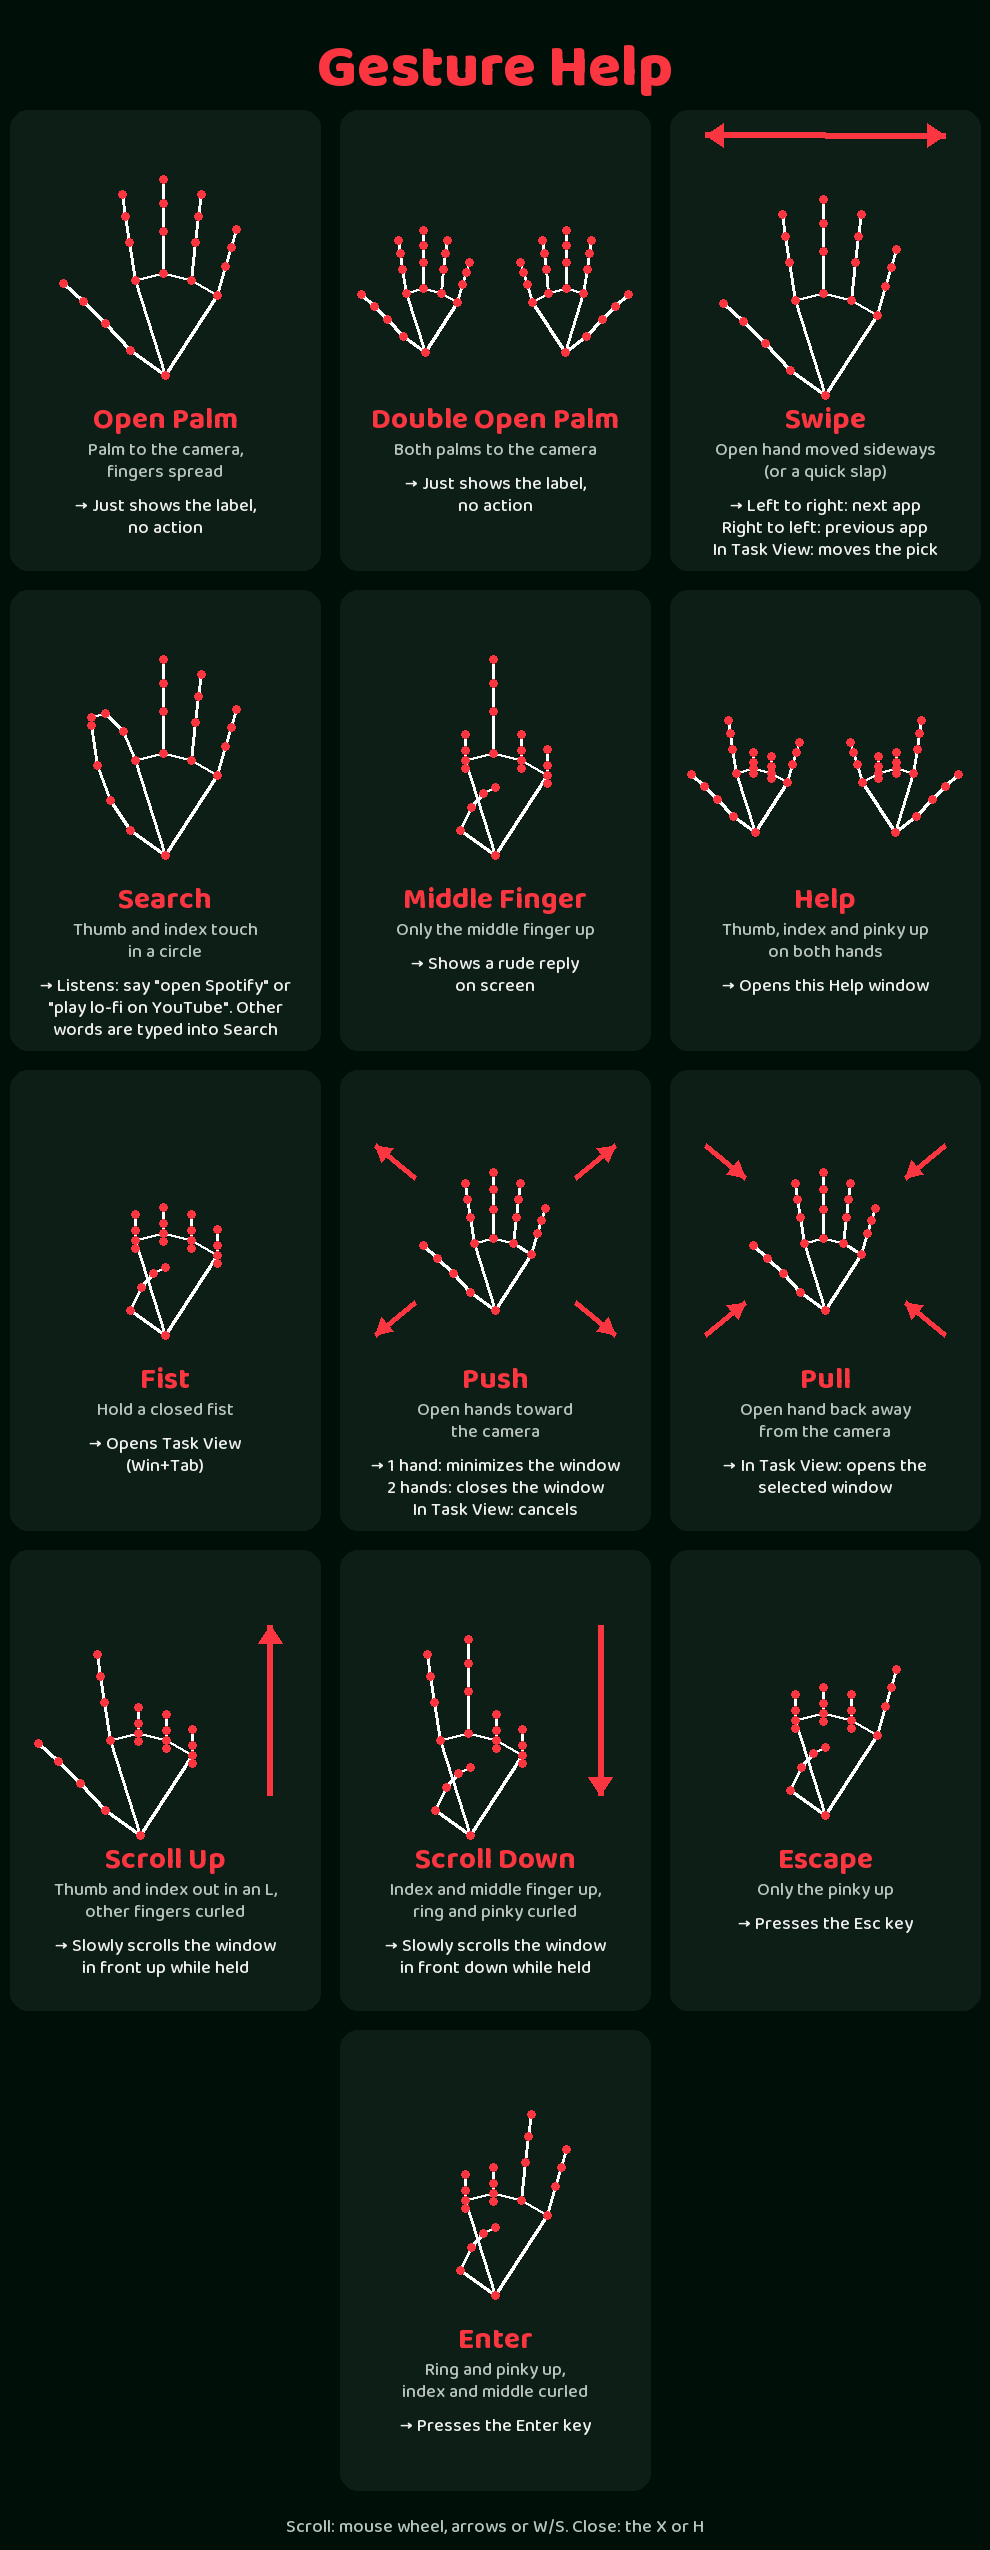
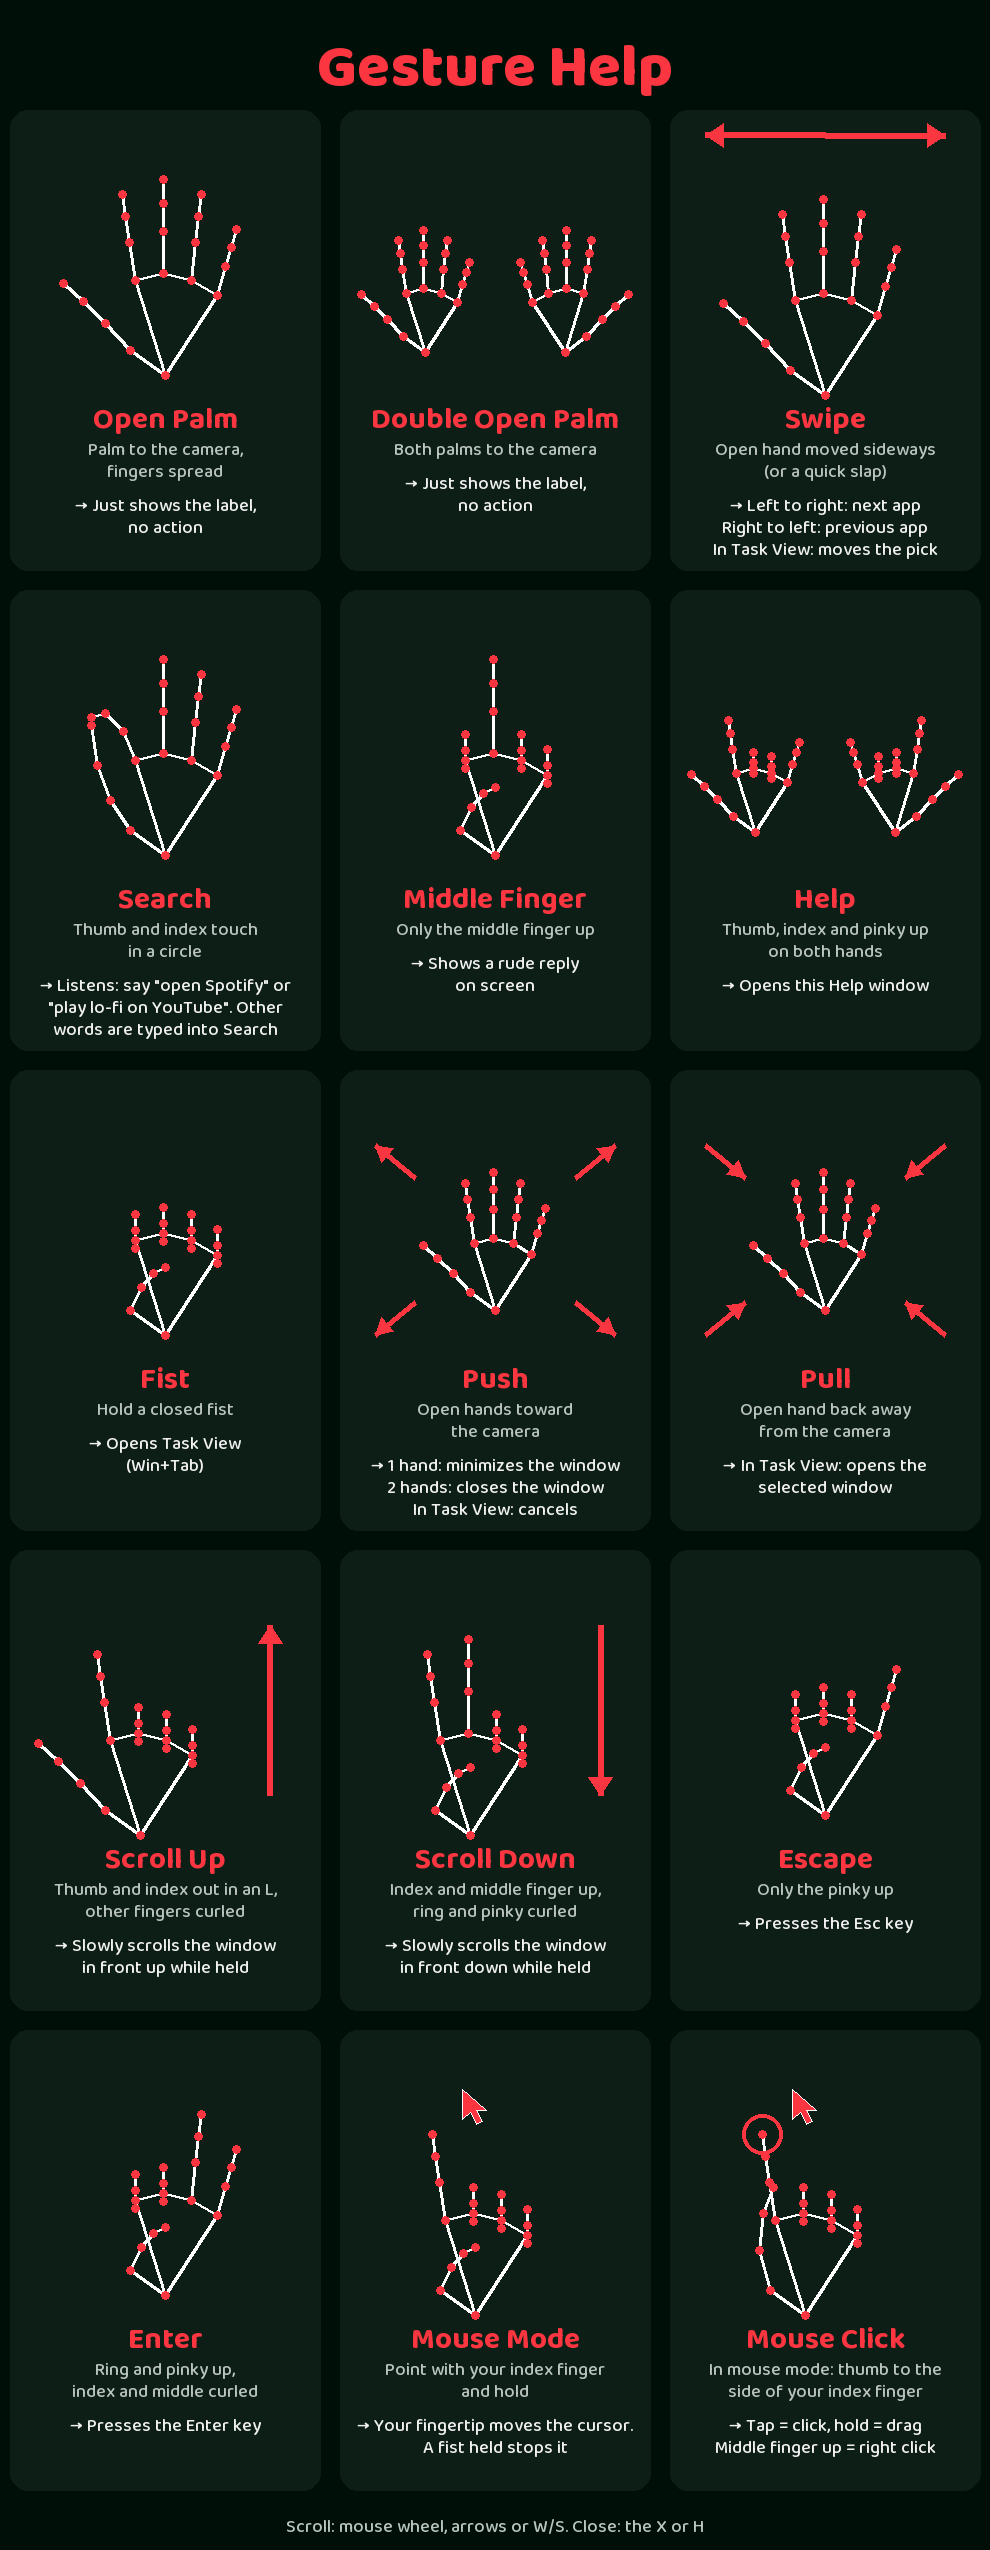
Add air mouse: index fingertip moves the cursor, thumb clicks and drags

diff --git a/src/mouse.py b/src/mouse.py
@@ -1,0 +1,191 @@
+"""Air mouse: your index fingertip moves the cursor, your thumb clicks and drags.
+
+Point (index finger only) and hold to start; make a fist and hold to stop.
+While it is on, the other gestures are switched off so they cannot fire by accident.
+"""
+import ctypes
+import math
+import time
+
+import cv2
+
+user32 = ctypes.windll.user32
+user32.SetProcessDPIAware()  # real pixels, not scaled ones
+SCREEN_W = user32.GetSystemMetrics(0)
+SCREEN_H = user32.GetSystemMetrics(1)
+
+# The part of the camera picture (x0, x1, y0, y1) that maps onto the whole screen,
+# so you can reach the screen edges without leaving the camera view.
+REGION = (0.2, 0.8, 0.15, 0.75)
+
+POINT_HOLD_S = 0.8  # hold the pointing sign this long to start
+EXIT_HOLD_S = 0.7  # hold a fist this long to stop
+AUTO_EXIT_S = 6.0  # stop by itself if your hand is out of view this long
+PINCH_ON = 0.30  # thumb tip this close to the index finger (x hand size) = pressed
+PINCH_OFF = 0.42  # ...and released when it is farther than this
+RIGHT_CLICK_HOLD_S = 0.25  # hold the middle finger up this long for a right click
+DRAG_AFTER_S = 0.4  # a press held this long is shown as "Dragging"
+FLASH_S = 0.6
+
+WRIST, THUMB_TIP, THUMB_IP, INDEX_MCP, INDEX_PIP, INDEX_TIP = 0, 4, 3, 5, 6, 8
+PINKY_MCP = 17
+
+
+def _dist(a, b):
+    return ((a.x - b.x) ** 2 + (a.y - b.y) ** 2) ** 0.5
+
+
+def _extended(lm, tip, pip):
+    return _dist(lm[tip], lm[WRIST]) > _dist(lm[pip], lm[WRIST])
+
+
+def _curled(lm, tip, mcp):
+    return _dist(lm[tip], lm[WRIST]) < _dist(lm[mcp], lm[WRIST])
+
+
+def _thumb_out(lm):
+    return _dist(lm[THUMB_TIP], lm[PINKY_MCP]) > _dist(lm[THUMB_IP], lm[PINKY_MCP])
+
+
+def is_pointing(lm):
+    """Only the index finger up, thumb tucked in: the sign that starts mouse mode."""
+    return (
+        not _thumb_out(lm)
+        and _extended(lm, 8, 6)
+        and _curled(lm, 12, 9)
+        and _curled(lm, 16, 13)
+        and _curled(lm, 20, 17)
+    )
+
+
+def is_fist(lm):
+    return all(_dist(lm[tip], lm[WRIST]) < 0.9 * _dist(lm[mcp], lm[WRIST])
+               for tip, mcp in ((8, 5), (12, 9), (16, 13), (20, 17)))
+
+
+# --- the actual mouse (kept apart so it can be swapped out in tests) --------------------
+
+def move_cursor(x, y):
+    user32.SetCursorPos(int(x), int(y))
+
+
+def button(name, down):
+    flags = {("left", True): 0x0002, ("left", False): 0x0004,
+             ("right", True): 0x0008, ("right", False): 0x0010}[(name, down)]
+    user32.mouse_event(flags, 0, 0, 0, 0)
+
+
+class Smoother:
+    """Smooths the cursor: steady when you move slowly, quick when you move fast."""
+
+    def __init__(self):
+        self.x = self.y = None
+
+    def reset(self):
+        self.x = self.y = None
+
+    def __call__(self, x, y):
+        if self.x is None:
+            self.x, self.y = x, y
+        else:
+            speed = math.hypot(x - self.x, y - self.y)  # pixels since the last frame
+            alpha = min(0.85, 0.12 + speed / 300)
+            self.x += (x - self.x) * alpha
+            self.y += (y - self.y) * alpha
+        return self.x, self.y
+
+
+class AirMouse:
+    def __init__(self):
+        self.active = False
+        self._smooth = Smoother()
+        self._pressed = False
+        self._press_since = 0.0
+        self._middle_since = None
+        self._right_armed = True
+        self._fist_since = None
+        self._last_seen = 0.0
+        self._flash = ""
+        self._flash_until = 0.0
+
+    def start(self, now):
+        self.active = True
+        self._last_seen = now
+        self._smooth.reset()
+        self._pressed = False
+        self._middle_since = self._fist_since = None
+        self._right_armed = True
+        self._flash, self._flash_until = "Mouse mode on", now + FLASH_S
+
+    def stop(self, now):
+        if self._pressed:
+            button("left", False)
+        self.active = False
+        self._pressed = False
+        self._flash, self._flash_until = "Mouse mode off", now + FLASH_S
+
+    @property
+    def label(self):
+        if time.time() < self._flash_until:
+            return self._flash
+        if self._pressed and time.time() - self._press_since >= DRAG_AFTER_S:
+            return "Dragging"
+        return "Mouse mode" if self.active else ""
+
+    def update(self, hands, now):
+        if not self.active:
+            return
+        if not hands:
+            if now - self._last_seen > AUTO_EXIT_S:
+                self.stop(now)
+            return
+        lm = hands[0]
+        self._last_seen = now
+
+        # A fist stops mouse mode.
+        if is_fist(lm):
+            self._fist_since = self._fist_since or now
+            if now - self._fist_since >= EXIT_HOLD_S:
+                self.stop(now)
+            return
+        self._fist_since = None
+
+        # Middle finger up = right click, and the cursor stays put while you do it.
+        middle_up = _extended(lm, 12, 10)
+        if middle_up:
+            self._middle_since = self._middle_since or now
+            if self._right_armed and now - self._middle_since >= RIGHT_CLICK_HOLD_S:
+                button("right", True)
+                button("right", False)
+                self._right_armed = False
+                self._flash, self._flash_until = "Right click", now + FLASH_S
+        else:
+            self._middle_since = None
+            self._right_armed = True
+            x0, x1, y0, y1 = REGION
+            nx = min(max((lm[INDEX_TIP].x - x0) / (x1 - x0), 0.0), 1.0)
+            ny = min(max((lm[INDEX_TIP].y - y0) / (y1 - y0), 0.0), 1.0)
+            move_cursor(*self._smooth(nx * (SCREEN_W - 1), ny * (SCREEN_H - 1)))
+
+        # Thumb tip to the side of the index finger = press (a quick tap is a click,
+        # holding it while you move is a drag).
+        size = _dist(lm[WRIST], lm[9])
+        gap = _dist(lm[THUMB_TIP], lm[INDEX_PIP]) / size if size else 1.0
+        if not self._pressed and gap < PINCH_ON and not middle_up:
+            self._pressed, self._press_since = True, now
+            button("left", True)
+            self._flash, self._flash_until = "Click", now + 0.25
+        elif self._pressed and gap > PINCH_OFF:
+            self._pressed = False
+            button("left", False)
+
+    def draw(self, frame, hands):
+        """Show the area that maps to the screen and where your fingertip is."""
+        h, w = frame.shape[:2]
+        x0, x1, y0, y1 = REGION
+        cv2.rectangle(frame, (int(x0 * w), int(y0 * h)), (int(x1 * w), int(y1 * h)),
+                      (255, 255, 255), 1)
+        if hands:
+            tip = hands[0][INDEX_TIP]
+            thickness = -1 if self._pressed else 3
+            cv2.circle(frame, (int(tip.x * w), int(tip.y * h)), 14, (64, 54, 251), thickness)

diff --git a/src/help_screen.py b/src/help_screen.py
@@ -41,6 +41,7 @@ THUMB = {
     "out": [(115, 245), (90, 218), (68, 196), (48, 178)],
     "in": [(115, 245), (126, 222), (138, 208), (150, 202)],
     "loop": [(115, 245), (95, 215), (82, 180), (76, 140)],
+    "press": [(115, 245), (104, 205), (108, 168), (118, 142)],  # tip on the side of the index
 }
 
 
@@ -78,6 +79,8 @@ TWO_FINGER_HAND = hand("in", "up", "up", "curl", "curl")
 L_HAND = hand("out", "up", "curl", "curl", "curl")
 PINKY_HAND = hand("in", "curl", "curl", "curl", "up")
 RING_HAND = hand("in", "curl", "curl", "up", "up")
+POINT_HAND = hand("in", "up", "curl", "curl", "curl")
+CLICK_HAND = hand("press", "up", "curl", "curl", "curl")
 
 
 def draw_skeleton(draw, pts, cx, cy, scale=1.0, mirror=False):
@@ -108,6 +111,12 @@ def draw_growth_arrows(draw, cx, cy, outward):
         px, py = -uy, ux
         draw.polygon([b, (b[0] - 16 * ux + 9 * px, b[1] - 16 * uy + 9 * py),
                       (b[0] - 16 * ux - 9 * px, b[1] - 16 * uy - 9 * py)], fill=ACCENT)
+
+
+def draw_cursor(draw, x, y):
+    """A mouse pointer, tip at (x, y)."""
+    shape = [(0, 0), (0, 30), (8, 23), (14, 35), (20, 32), (14, 21), (24, 21)]
+    draw.polygon([(x + a, y + b) for a, b in shape], fill=ACCENT, outline=LINE)
 
 
 def draw_arrow_v(draw, y_from, y_to, x):
@@ -184,6 +193,15 @@ def build_help_image():
                 draw_arrow_v(d, y + 80, y + 250, x + 105)
         return art
 
+    def mouse(pts, click):
+        def art(d, x, y):
+            draw_skeleton(d, pts, x - 20, y + 190)
+            tip_x, tip_y = x - 20 + (POINT_HAND[8][0] - 150), y + 190 + (POINT_HAND[8][1] - 170)
+            draw_cursor(d, tip_x + 30, tip_y - 45)
+            if click:  # click rings at the fingertip
+                d.ellipse([tip_x - 20, tip_y - 20, tip_x + 20, tip_y + 20], outline=ACCENT, width=4)
+        return art
+
     def growth(outward):
         def art(d, x, y):
             draw_skeleton(d, OPEN_HAND, x, y + 175, 0.7)
@@ -218,8 +236,12 @@ def build_help_image():
     tile(draw, 2, 3, "Escape", "Only the pinky up",
          "Presses the Esc key", single(PINKY_HAND), fonts)
 
-    tile(draw, 1, 4, "Enter", "Ring and pinky up,\nindex and middle curled",
+    tile(draw, 0, 4, "Enter", "Ring and pinky up,\nindex and middle curled",
          "Presses the Enter key", single(RING_HAND), fonts)
+    tile(draw, 1, 4, "Mouse Mode", "Point with your index finger\nand hold",
+         "Your fingertip moves the cursor.\nA fist held stops it", mouse(POINT_HAND, False), fonts)
+    tile(draw, 2, 4, "Mouse Click", "In mouse mode: thumb to the\nside of your index finger",
+         "Tap = click, hold = drag\nMiddle finger up = right click", mouse(CLICK_HAND, True), fonts)
 
     centered(draw, "Scroll: mouse wheel, arrows or W/S. Close: the X or H",
              fonts["sub"], img.width / 2, img.height - 38, GREY)

diff --git a/src/camera.py b/src/camera.py
@@ -3,6 +3,7 @@ import os
 import time
 import urllib.request
 from collections import deque
+from types import SimpleNamespace
 
 import cv2
 import mediapipe as mp
@@ -11,7 +12,9 @@ from PIL import Image, ImageDraw, ImageFont
 
 from help_screen import build_help_image
 import commands
+import mouse
 import commands
+import mouse
 from voice import VoiceTyper, type_text, type_text
 from mediapipe.tasks.python import BaseOptions, vision
 
@@ -454,6 +457,8 @@ def main():
         return commands.route(text, type_into_search)
 
     commands.preload_apps()  # lists installed apps in the background
+    air = mouse.AirMouse()
+    point_since = None
     voice = VoiceTyper(handler=handle_voice, vocabulary=commands.vocabulary)
     voice.preload()  # loads the speech model in the background
     timestamp_ms = 0
@@ -467,6 +472,24 @@ def main():
         image = mp.Image(image_format=mp.ImageFormat.SRGB, data=rgb)
         timestamp_ms += 33
         result = landmarker.detect_for_video(image, timestamp_ms)
+
+        # Air mouse: point (index only) and hold to start, fist and hold to stop. While it
+        # is on, the other gestures see no hands, so nothing else can fire by accident.
+        mouse_now = time.time()
+        if air.active:
+            for lm in result.hand_landmarks:
+                draw_hand(frame, lm)
+            air.update(result.hand_landmarks, mouse_now)
+            air.draw(frame, result.hand_landmarks)
+            result = SimpleNamespace(hand_landmarks=[], handedness=[])
+            point_since = None
+        elif len(result.hand_landmarks) == 1 and mouse.is_pointing(result.hand_landmarks[0]):
+            point_since = point_since or mouse_now
+            if mouse_now - point_since >= mouse.POINT_HOLD_S:
+                air.start(mouse_now)
+                point_since = None
+        else:
+            point_since = None
 
         open_palms = 0
         middle_finger = False
@@ -654,6 +677,8 @@ def main():
         elif open_palms == 1:
             gesture = "Open Palm"
 
+        if air.label:  # mouse mode messages come first
+            gesture = air.label
         if gesture:
             frame = draw_text_bottom(frame, gesture, font)
 

diff --git a/tools/make_readme_images.py b/tools/make_readme_images.py
@@ -12,7 +12,7 @@ DOCS = os.path.join(ROOT, "docs")
 GESTURES = os.path.join(DOCS, "gestures")
 HEADINGS = os.path.join(DOCS, "headings")
 HEADING_TITLES = [  # README section titles, drawn in the app font because GitHub cannot change fonts
-    "What it does", "Contents", "Quick start", "Gestures", "Voice commands", "Keys",
+    "What it does", "Contents", "Quick start", "Gestures", "Voice commands", "Air mouse", "Keys",
     "Tips for best results", "Troubleshooting", "How it works", "Project structure",
     "Tuning", "Credits",
 ]
@@ -21,7 +21,7 @@ TILES = [  # (col, row, file name) in the order build_help_image lays them out
     (0, 0, "open-palm"), (1, 0, "double-open-palm"), (2, 0, "swipe"),
     (0, 1, "search"), (1, 1, "middle-finger"), (2, 1, "help"),
     (0, 2, "fist"), (1, 2, "push"), (2, 2, "pull"),
-    (0, 3, "scroll-up"), (1, 3, "scroll-down"), (2, 3, "escape"), (1, 4, "enter"),
+    (0, 3, "scroll-up"), (1, 3, "scroll-down"), (2, 3, "escape"), (0, 4, "enter"), (1, 4, "mouse-mode"), (2, 4, "mouse-click"),
 ]
 
 

diff --git a/README.md b/README.md
@@ -11,7 +11,7 @@
 
 ## <a name="what-it-does"></a><img src="docs/headings/what-it-does.png" alt="What it does" height="38">
 
-- **Tracks your hands** with your webcam and recognizes 13 gestures, from swipes and pushes to single-finger signs.
+- **Tracks your hands** with your webcam and recognizes 15 gestures, from swipes and pushes to single-finger signs.
 - **Controls Windows**: switch apps, open Task View, minimize or close the window in front, scroll, press Esc or Enter.
 - **Understands your voice**: make the Search sign and say *"open Spotify"*, *"play lo-fi music on YouTube"* or *"google weather in London"*.
 - **Runs offline**: hand tracking and speech recognition both run on your PC. Nothing you say or show is uploaded.
@@ -19,7 +19,7 @@
 
 ## <a name="contents"></a><img src="docs/headings/contents.png" alt="Contents" height="38">
 
-[Quick start](#quick-start) · [Gestures](#gestures) · [Voice commands](#voice-commands) · [Keys](#keys) · [Tips](#tips-for-best-results) · [Troubleshooting](#troubleshooting) · [How it works](#how-it-works) · [Project structure](#project-structure) · [Tuning](#tuning)
+[Quick start](#quick-start) · [Gestures](#gestures) · [Voice commands](#voice-commands) · [Air mouse](#air-mouse) · [Keys](#keys) · [Tips](#tips-for-best-results) · [Troubleshooting](#troubleshooting) · [How it works](#how-it-works) · [Project structure](#project-structure) · [Tuning](#tuning)
 
 ## <a name="quick-start"></a><img src="docs/headings/quick-start.png" alt="Quick start" height="38">
 
@@ -65,9 +65,9 @@ Hold the sign steady for a moment. The app waits about a third of a second after
     <td align="center"><img src="docs/gestures/escape.png" width="220"></td>
   </tr>
   <tr>
-    <td></td>
     <td align="center"><img src="docs/gestures/enter.png" width="220"></td>
-    <td></td>
+    <td align="center"><img src="docs/gestures/mouse-mode.png" width="220"></td>
+    <td align="center"><img src="docs/gestures/mouse-click.png" width="220"></td>
   </tr>
 </table>
 
@@ -86,6 +86,8 @@ Hold the sign steady for a moment. The app waits about a third of a second after
 | **Scroll Down** | Index and middle finger up, ring and pinky curled | Slowly scrolls the window in front down while you hold it |
 | **Escape** | Only the pinky up, other fingers curled | Presses the Esc key (skipped while the Camera window is in front, since Esc would quit the app) |
 | **Enter** | Ring and pinky up, index and middle curled | Presses the Enter key |
+| **Mouse Mode** | Point with your index finger only (thumb tucked in) and hold | Starts the [air mouse](#air-mouse): your fingertip moves the cursor. A held fist stops it |
+| **Mouse Click** | In mouse mode: thumb to the side of your index finger | Tap = click, hold = drag. Middle finger up = right click |
 
 > **Careful with Push:** a two-hand push asks the window in front to close, like clicking its X. Programs with unsaved work will still ask you to save first.
 
@@ -116,6 +118,17 @@ Make the **Search** sign, say something, then pause. The camera window shows "Li
 - **Privacy:** your voice never leaves your PC. The one online request is finding the top video for "play ... on YouTube", and it only sends the search words.
 - **Bare "play" or "watch"** is treated as a YouTube video.
 
+## <a name="air-mouse"></a><img src="docs/headings/air-mouse.png" alt="Air mouse" height="38">
+
+Use your hand as a mouse:
+
+1. **Start:** point with your index finger only (thumb tucked in, other fingers curled) and hold for about a second. The camera window shows "Mouse mode on".
+2. **Move:** your index fingertip moves the cursor. A thin white rectangle in the camera window shows the part of the picture that covers the whole screen, so you can reach every edge. The cursor is smoothed, steady when you move slowly and quick when you move fast.
+3. **Click and drag:** touch the side of your index finger with your thumb. A quick tap is a click. Keep the thumb pressed while you move to drag.
+4. **Right click:** raise your middle finger for a moment. The cursor stays put while you do it.
+5. **Stop:** make a fist and hold. It also stops by itself if your hand is out of view for 6 seconds.
+
+While mouse mode is on, all the other gestures are switched off, so a swipe or push can't fire by accident. Esc or q in the camera window still quits the app.
 ## <a name="keys"></a><img src="docs/headings/keys.png" alt="Keys" height="38">
 
 | Key | Action |
@@ -155,6 +168,7 @@ Make the **Search** sign, say something, then pause. The camera window shows "Li
 Gesture-App/
 ├── src/
 │   ├── camera.py            camera loop, gesture detection and actions
+│   ├── mouse.py             air mouse: cursor, clicks and drags from your hand
 │   ├── voice.py             microphone listening and offline speech recognition
 │   ├── commands.py          turns what you said into an action (app, site or typing)
 │   ├── help_screen.py       draws the Help window
